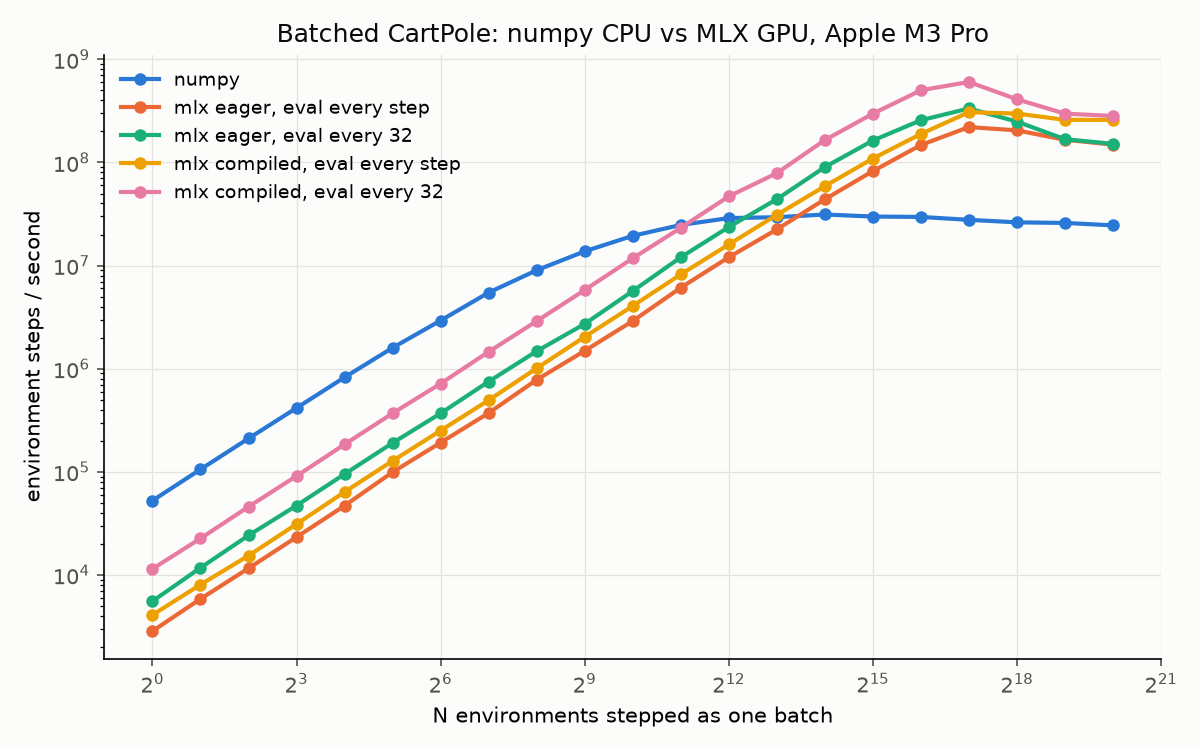
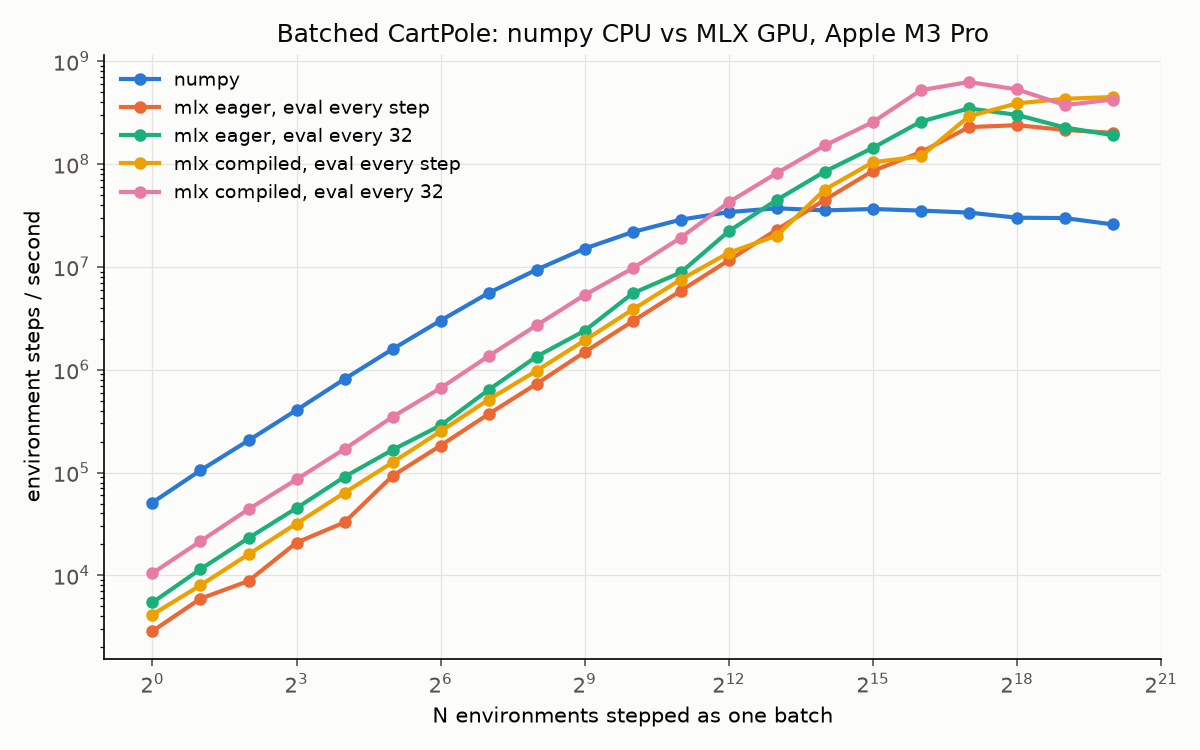
Re-run sweep on AC power with the (4, N) layout; document layout and power findings
Crossover unchanged at N = 2K-4K. Peak 19x at N = 131K, 17x at N = 1M (was 11x with the strided layout).
Environment line now records the power source. A battery run was discarded: ~30% slower on every
CPU-bound number, GPU unchanged, which would have overstated the ratio by ~20%.

diff --git a/README.md b/README.md
@@ -17,62 +17,71 @@ hardware. Nobody had for Metal.
 ![environment steps per second against N, numpy CPU vs four MLX GPU configurations](results/steps_per_sec.png)
 
 **The crossover is between N = 2,048 and N = 4,096.** Below it the CPU wins,
-by about 5x at N = 1. Above it the GPU wins, peaking at **22x at N = 131,072**
-(603M environment steps per second against 28M). At N = 1,048,576 the GPU
-still holds 11x.
+by about 5x at N = 1. Above it the GPU wins, peaking at **19x at N = 131,072**
+(628M environment steps per second against 34M) and holding **17x at
+N = 1,048,576**.
 
 What the sweep shows beyond the headline:
 
 - **Per-step dispatch overhead is the whole story at small N.** At N = 1 the
-  best GPU configuration spends 87 µs per step; numpy spends 19 µs. That cost
+  best GPU configuration spends 95 µs per step; numpy spends 20 µs. That cost
   is per step, not per environment, so it amortises linearly with N, which is
-  why every GPU line climbs at exactly slope 1 until the kernels themselves
-  start to cost something.
-- **Where the eval boundary goes is worth 2x to 3x at small N and nothing at
-  large N.** Chaining 32 lazy steps before one `mx.eval` lets the GPU work
-  while Python builds the next graph. Once kernels dominate, the boundary
-  stops mattering and the lines converge.
-- **`mx.compile` is worth 1.4x to 2x everywhere.** It fuses the ~20 tiny
+  why every GPU line climbs at slope 1 until the kernels themselves start to
+  cost something.
+- **Where the eval boundary goes is worth 2x to 2.5x at small N and nothing
+  at large N.** Chaining 32 lazy steps before one `mx.eval` lets the GPU
+  work while Python builds the next graph. Once kernels dominate, the boundary
+  stops mattering; past N = 262K the eager compiled variant is slightly ahead.
+- **`mx.compile` is worth 1.5x to 2.2x everywhere.** It fuses the ~20 tiny
   elementwise ops in a step into a few kernels. Compile alone moves the
   crossover from N ≈ 8K (naive port) to N ≈ 4K.
 - **A naive port loses until N ≈ 16K.** Eager MLX with an eval every step
   crosses numpy between N = 8,192 and 16,384, four times later than the best
-  configuration. The technique is not "put it on the GPU", it is the eval
+  configuration. The technique is not "put it on the GPU"; it is the eval
   boundary and compile.
-- numpy peaks at 31M steps per second around N = 16K and declines slowly after,
-  which is where the working set leaves cache. The GPU lines peak at
-  N = 131K and settle to roughly 280M. Neither tail was investigated in v1.
+- **Memory layout was worth 1.6x on the GPU at large N, and 1.2x to 1.3x on
+  the CPU.** The first version stored state as (N, 4) and read each variable
+  as a column, a strided view. Stored as (4, N), each variable is a contiguous
+  row. A same-session A/B on the whole step, old modules from git history
+  against new: numpy 1.2x to 1.3x faster at N ≥ 16K; compiled MLX 1.6x faster
+  at N = 1M and unchanged below 131K. The first sweep's GPU throughput had
+  collapsed from 603M at N = 131K to 282M at N = 1M; that collapse was the
+  layout, not the hardware. The first sweep is kept as
+  `results/steps_per_sec_layout_n4.csv`.
+- numpy peaks at 37M steps per second around N = 8K and declines slowly after,
+  where the working set leaves cache. Not investigated.
 
 ### Table
 
-Apple M3 Pro, macOS 26.4, Python 3.13.5, mlx 0.32.2, numpy 2.5.3. Median of 3
-runs of 256 timed steps each, after 16 untimed warm-up steps. Full data in
-`results/steps_per_sec.csv`; `uv run bench.py` regenerates all of it in a
-few minutes.
+Apple M3 Pro, macOS 26.4, Python 3.13.5, mlx 0.32.2, numpy 2.5.3, on AC
+power, with a browser, an IDE, a terminal and an Android emulator open.
+Median of 3 runs of 256 timed steps each, after 16 untimed warm-up steps.
+Full data in `results/steps_per_sec.csv`; `uv run bench.py` regenerates
+all of it in a few minutes.
 
 | N | numpy | mlx eager, eval every step | mlx eager, eval every 32 | mlx compiled, eval every step | mlx compiled, eval every 32 | best MLX / numpy |
 |--:|--:|--:|--:|--:|--:|--:|
-| 1 | 52,566 | 2,853 | 5,565 | 4,094 | 11,443 | 0.22x |
-| 2 | 105,600 | 5,858 | 11,728 | 8,057 | 22,594 | 0.21x |
-| 4 | 210,568 | 11,597 | 24,160 | 15,373 | 45,829 | 0.22x |
-| 8 | 415,894 | 23,283 | 47,070 | 31,130 | 91,053 | 0.22x |
-| 16 | 824,677 | 46,941 | 95,075 | 63,764 | 184,511 | 0.22x |
-| 32 | 1,595,663 | 99,319 | 190,487 | 127,587 | 369,466 | 0.23x |
-| 64 | 2,932,719 | 191,943 | 369,180 | 251,158 | 717,208 | 0.24x |
-| 128 | 5,472,049 | 371,746 | 750,165 | 494,576 | 1,457,967 | 0.27x |
-| 256 | 9,010,191 | 780,458 | 1,477,836 | 1,010,119 | 2,894,966 | 0.32x |
-| 512 | 13,744,125 | 1,490,468 | 2,719,169 | 2,036,674 | 5,795,629 | 0.42x |
-| 1,024 | 19,433,310 | 2,899,602 | 5,662,306 | 4,057,802 | 11,763,161 | 0.61x |
-| 2,048 | 24,759,569 | 6,103,241 | 12,030,197 | 8,209,370 | 23,227,704 | 0.94x |
-| 4,096 | 28,878,402 | 12,043,600 | 23,635,696 | 16,016,690 | 46,866,350 | 1.62x |
-| 8,192 | 29,455,209 | 22,427,084 | 43,992,696 | 31,025,559 | 78,733,989 | 2.67x |
-| 16,384 | 31,287,127 | 43,925,892 | 90,115,139 | 58,907,558 | 164,759,266 | 5.27x |
-| 32,768 | 29,884,767 | 82,392,307 | 163,077,565 | 109,176,379 | 296,815,795 | 9.93x |
-| 65,536 | 29,627,436 | 147,571,524 | 256,791,994 | 188,951,674 | 501,073,545 | 16.91x |
-| 131,072 | 27,767,899 | 220,442,120 | 333,916,893 | 307,133,686 | 603,450,851 | 21.73x |
-| 262,144 | 26,254,123 | 204,743,219 | 248,896,884 | 297,834,721 | 409,951,552 | 15.61x |
-| 524,288 | 25,909,452 | 166,044,553 | 168,121,608 | 259,041,926 | 297,440,050 | 11.48x |
-| 1,048,576 | 24,545,803 | 148,843,957 | 151,593,130 | 258,615,990 | 282,533,538 | 11.51x |
+| 1 | 51,124 | 2,871 | 5,450 | 4,158 | 10,515 | 0.21x |
+| 2 | 105,068 | 5,938 | 11,490 | 8,007 | 21,481 | 0.20x |
+| 4 | 205,169 | 8,823 | 23,079 | 16,035 | 43,980 | 0.21x |
+| 8 | 405,170 | 20,806 | 45,109 | 31,888 | 85,798 | 0.21x |
+| 16 | 812,188 | 32,825 | 90,859 | 63,730 | 169,399 | 0.21x |
+| 32 | 1,586,867 | 92,817 | 166,267 | 125,536 | 347,899 | 0.22x |
+| 64 | 3,006,721 | 183,027 | 287,493 | 251,733 | 663,112 | 0.22x |
+| 128 | 5,576,306 | 370,559 | 637,306 | 512,871 | 1,358,351 | 0.24x |
+| 256 | 9,400,109 | 729,404 | 1,344,245 | 978,561 | 2,707,540 | 0.29x |
+| 512 | 15,073,760 | 1,483,961 | 2,395,398 | 1,930,451 | 5,337,170 | 0.35x |
+| 1,024 | 21,822,527 | 2,960,862 | 5,534,127 | 3,852,450 | 9,691,195 | 0.44x |
+| 2,048 | 28,788,117 | 5,851,072 | 8,817,410 | 7,530,588 | 19,220,618 | 0.67x |
+| 4,096 | 34,103,868 | 11,599,747 | 22,224,794 | 13,698,892 | 42,530,816 | 1.25x |
+| 8,192 | 37,145,676 | 23,028,703 | 44,832,494 | 20,161,062 | 81,658,568 | 2.20x |
+| 16,384 | 35,397,522 | 44,856,348 | 84,568,620 | 56,483,237 | 151,763,854 | 4.29x |
+| 32,768 | 36,549,001 | 85,811,548 | 143,582,053 | 104,027,654 | 255,706,392 | 7.00x |
+| 65,536 | 35,257,032 | 130,355,680 | 258,658,675 | 118,866,584 | 522,687,270 | 14.83x |
+| 131,072 | 33,728,297 | 228,532,791 | 347,480,868 | 290,960,344 | 628,375,847 | 18.63x |
+| 262,144 | 30,073,908 | 238,658,334 | 300,690,641 | 388,920,593 | 531,871,672 | 17.69x |
+| 524,288 | 29,821,233 | 214,494,032 | 226,420,572 | 430,930,003 | 374,559,882 | 14.45x |
+| 1,048,576 | 25,853,650 | 201,065,370 | 190,864,944 | 448,654,361 | 423,491,089 | 17.35x |
 
 ## Methodology
 
@@ -91,10 +100,11 @@ flattering result.
 - **Identical dynamics on both devices**, enforced structurally: the MLX
   module imports its constants from the numpy module, and a parity test feeds
   the same states and actions to both and requires agreement to five decimals.
+  Both use the same (4, N) layout.
 - **Identical auto-reset semantics.** Terminated environments are reset in
   place with a mask. Both implementations generate a fresh reset state for all
-  N every step and select per row. That is wasted work on a CPU and the only
-  branch-free shape on a GPU, and the baseline pays it on purpose so the
+  N every step and select per column. That is wasted work on a CPU and the
+  only branch-free shape on a GPU, and the baseline pays it on purpose so the
   comparison isolates the device.
 - **The CPU baseline is single-threaded.** numpy elementwise ops do not use
   multiple cores. A hand-parallelised CPU implementation could lift the CPU
@@ -102,6 +112,12 @@ flattering result.
   but not remove it. The crossover reported here is against one core.
 - **The CPU baseline is vectorised numpy over N**, not a Python loop over
   single environments. A per-env loop is a strawman and would flatter the GPU.
+- **Power source is part of the environment.** A sweep taken on battery at
+  19% came out ~30% slower on every CPU-bound number, numpy and small-N MLX
+  alike, while GPU-bound numbers at large N were unchanged. That would have
+  overstated the GPU's lead by ~20%, so it was discarded and `bench.py` now
+  prints the power source. Two AC-power sweeps five days apart agreed within
+  ~3% at small N.
 - Each (configuration, N) is repeated three times and the median is reported.
 - No 500-step time limit. Under random actions an episode ends in about 20
   steps, so it would never fire.
@@ -123,7 +139,8 @@ uv run bench.py
 - `test_cartpole.py`: contract tests, including agreement with a scalar
   transcription of Gym's CartPole step and numpy/MLX parity.
 - `bench.py`: the sweep, the timing rule, the CSV, the plot, the table.
-- `results/`: the CSV and the plot from the run above.
+- `results/`: the CSV and the plot from the run above, and the first
+  sweep with the (N, 4) layout for comparison.
 
 ## Scope
 
